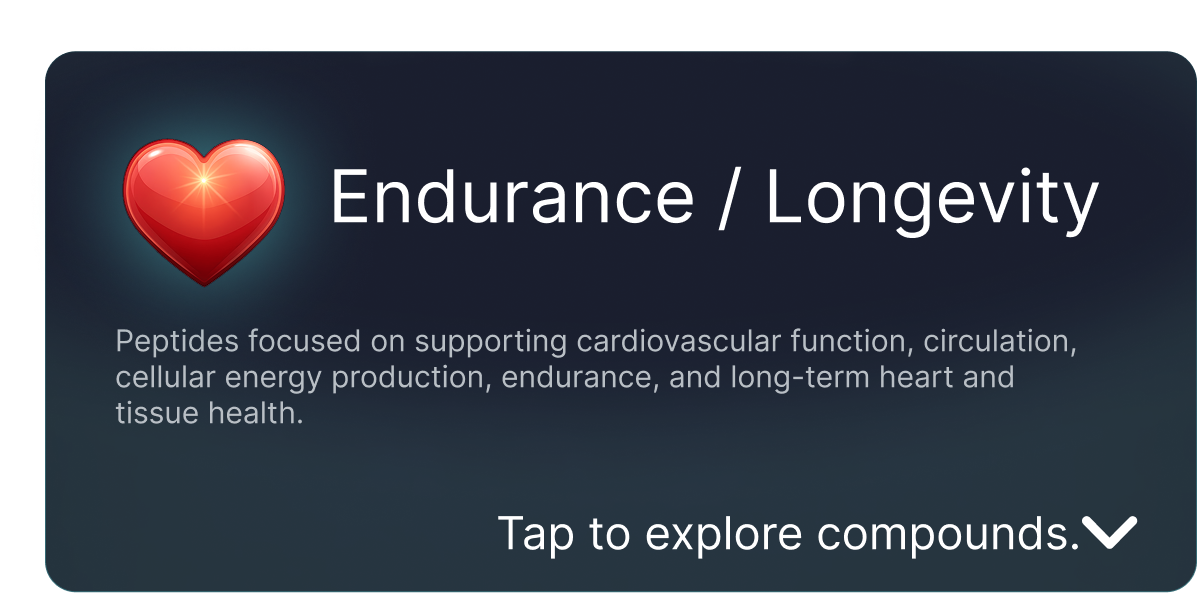
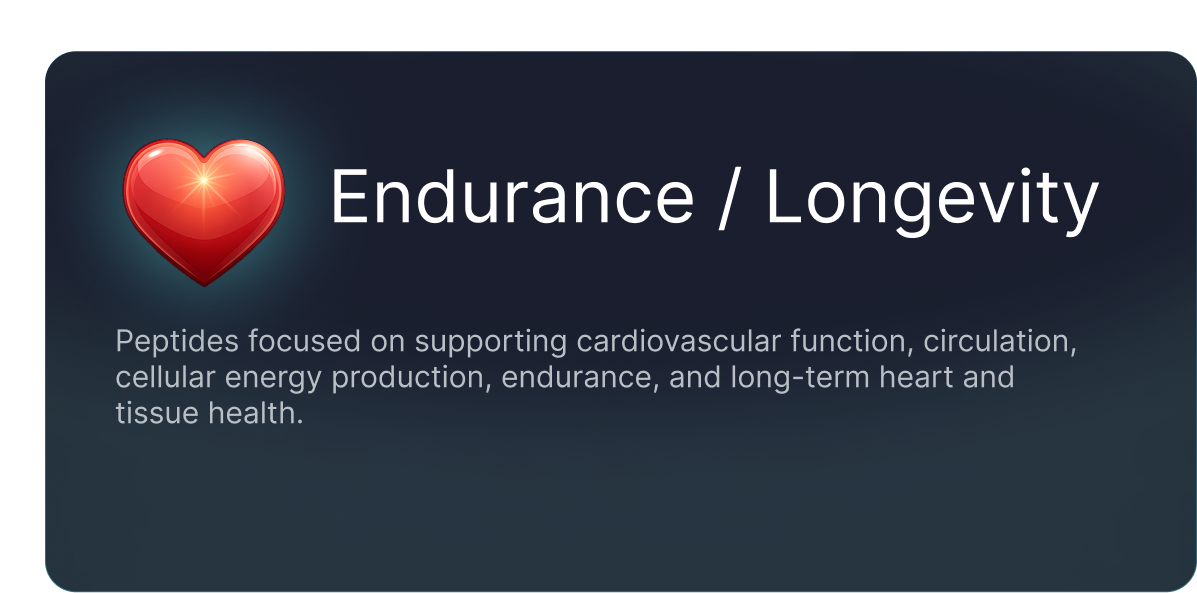
Remove green tap animation on labels in HomeScreen

Changed region(s): [[0.4018, 0.8499, 0.9582, 0.941]]

diff --git a/src/screens/HomeScreen.js b/src/screens/HomeScreen.js
@@ -69,42 +69,7 @@ const HomeScreen = () => {
   const overlayOpacity = useRef(new Animated.Value(0)).current;
   // Body image crossfade for smooth transitions
   const bodyFadeAnim = useRef(new Animated.Value(1)).current;
-  // Selected label glow animation
-  const labelGlowAnim = useRef(new Animated.Value(0)).current;
 
-  // Label pop-hint animations (one per label)
-  const labelAnims = useRef(LABELS.map(() => new Animated.Value(1))).current;
-
-  // On mount: play a continuous staggered pulse on each label to hint interactivity
-  useEffect(() => {
-    const loopAnims = LABELS.map((_, i) => {
-      return Animated.loop(
-        Animated.sequence([
-          Animated.delay(i * 180),
-          Animated.timing(labelAnims[i], {
-            toValue: 1.15,
-            duration: 500,
-            easing: Easing.out(Easing.back(2)),
-            useNativeDriver: true,
-          }),
-          Animated.timing(labelAnims[i], {
-            toValue: 1,
-            duration: 500,
-            easing: Easing.inOut(Easing.ease),
-            useNativeDriver: true,
-          }),
-          Animated.delay(2500),
-        ])
-      );
-    });
-    const timeout = setTimeout(() => {
-      loopAnims.forEach(a => a.start());
-    }, 600);
-    return () => {
-      clearTimeout(timeout);
-      loopAnims.forEach(a => a.stop());
-    };
-  }, []);
 
   // Animate overlay + body crossfade when a body part is selected
   useEffect(() => {
@@ -124,21 +89,8 @@ const HomeScreen = () => {
           easing: Easing.out(Easing.ease),
           useNativeDriver: true,
         }),
-        Animated.sequence([
-          Animated.timing(labelGlowAnim, {
-            toValue: 1,
-            duration: 200,
-            useNativeDriver: true,
-          }),
-          Animated.timing(labelGlowAnim, {
-            toValue: 0.6,
-            duration: 300,
-            useNativeDriver: true,
-          }),
-        ]),
+
       ]).start();
-    } else {
-      labelGlowAnim.setValue(0);
     }
   }, [selectedBodyPart]);
 
@@ -237,34 +189,18 @@ const HomeScreen = () => {
             resizeMode="stretch"
           />
           <View style={styles.labelTapOverlay}>
-            {LABELS.map((label, index) => {
-              const isSelected = selectedBodyPart === label.key;
+            {LABELS.map((label) => {
               return (
-                <Animated.View
+                <View
                   key={`label-${label.key}`}
-                  style={[
-                    styles.labelTapArea,
-                    { transform: [{ scale: isSelected ? 1.15 : labelAnims[index] }] },
-                  ]}
+                  style={styles.labelTapArea}
                 >
                   <TouchableOpacity
-                    style={[
-                      styles.labelTapButton,
-                      isSelected && styles.labelTapButtonSelected,
-                    ]}
+                    style={styles.labelTapButton}
                     onPress={() => handleLabelPress(label.key)}
                     activeOpacity={0.7}
-                  >
-                    {isSelected && (
-                      <Animated.View
-                        style={[
-                          styles.labelSelectedGlow,
-                          { opacity: labelGlowAnim },
-                        ]}
-                      />
-                    )}
-                  </TouchableOpacity>
-                </Animated.View>
+                  />
+                </View>
               );
             })}
           </View>
@@ -357,19 +293,7 @@ const styles = StyleSheet.create({
     justifyContent: 'center',
     alignItems: 'center',
   },
-  labelTapButtonSelected: {
-    backgroundColor: 'rgba(26, 188, 156, 0.35)',
-    borderRadius: 22,
-    borderWidth: 1.5,
-    borderColor: '#1abc9c',
-  },
-  labelSelectedGlow: {
-    position: 'absolute',
-    width: 48,
-    height: 48,
-    borderRadius: 24,
-    backgroundColor: 'rgba(26, 188, 156, 0.15)',
-  },
+
 });
 
 export default HomeScreen;
